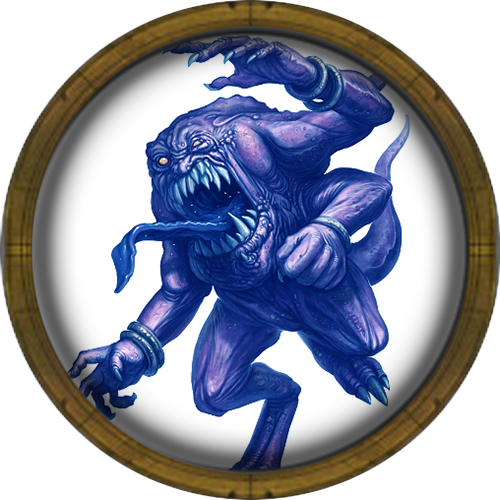
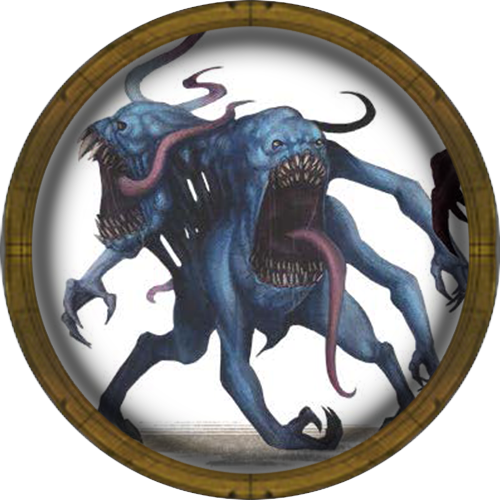
Changed blue horror token

diff --git a/README.md b/README.md
@@ -1,6 +1,6 @@
 # Enemy in Shadows
 Enemy In Shadows Supplement for the WFRP4e System on FVTT
 
-**Current Version**: 0.73 - update for FVTT 0.4.4+
+**Current Version**: 0.74 - Updated Blue Horror Token
 
 **Manifest Link**: `https://raw.githubusercontent.com/moo-man/EiS-FVTT/master/module.json`
